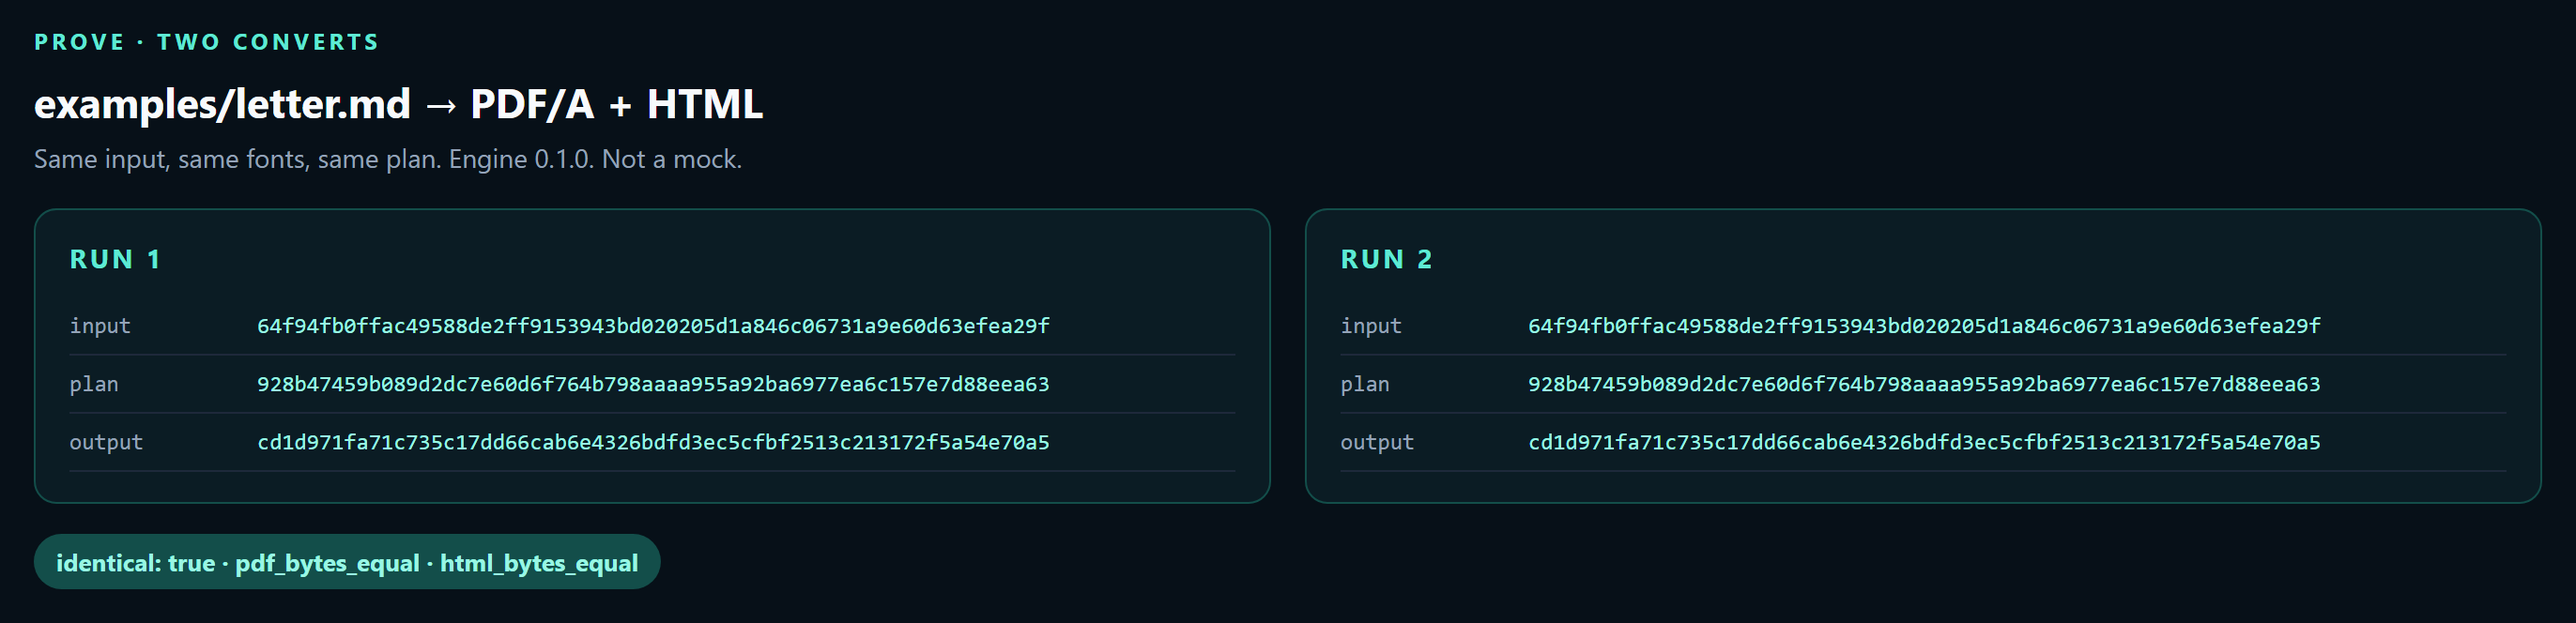
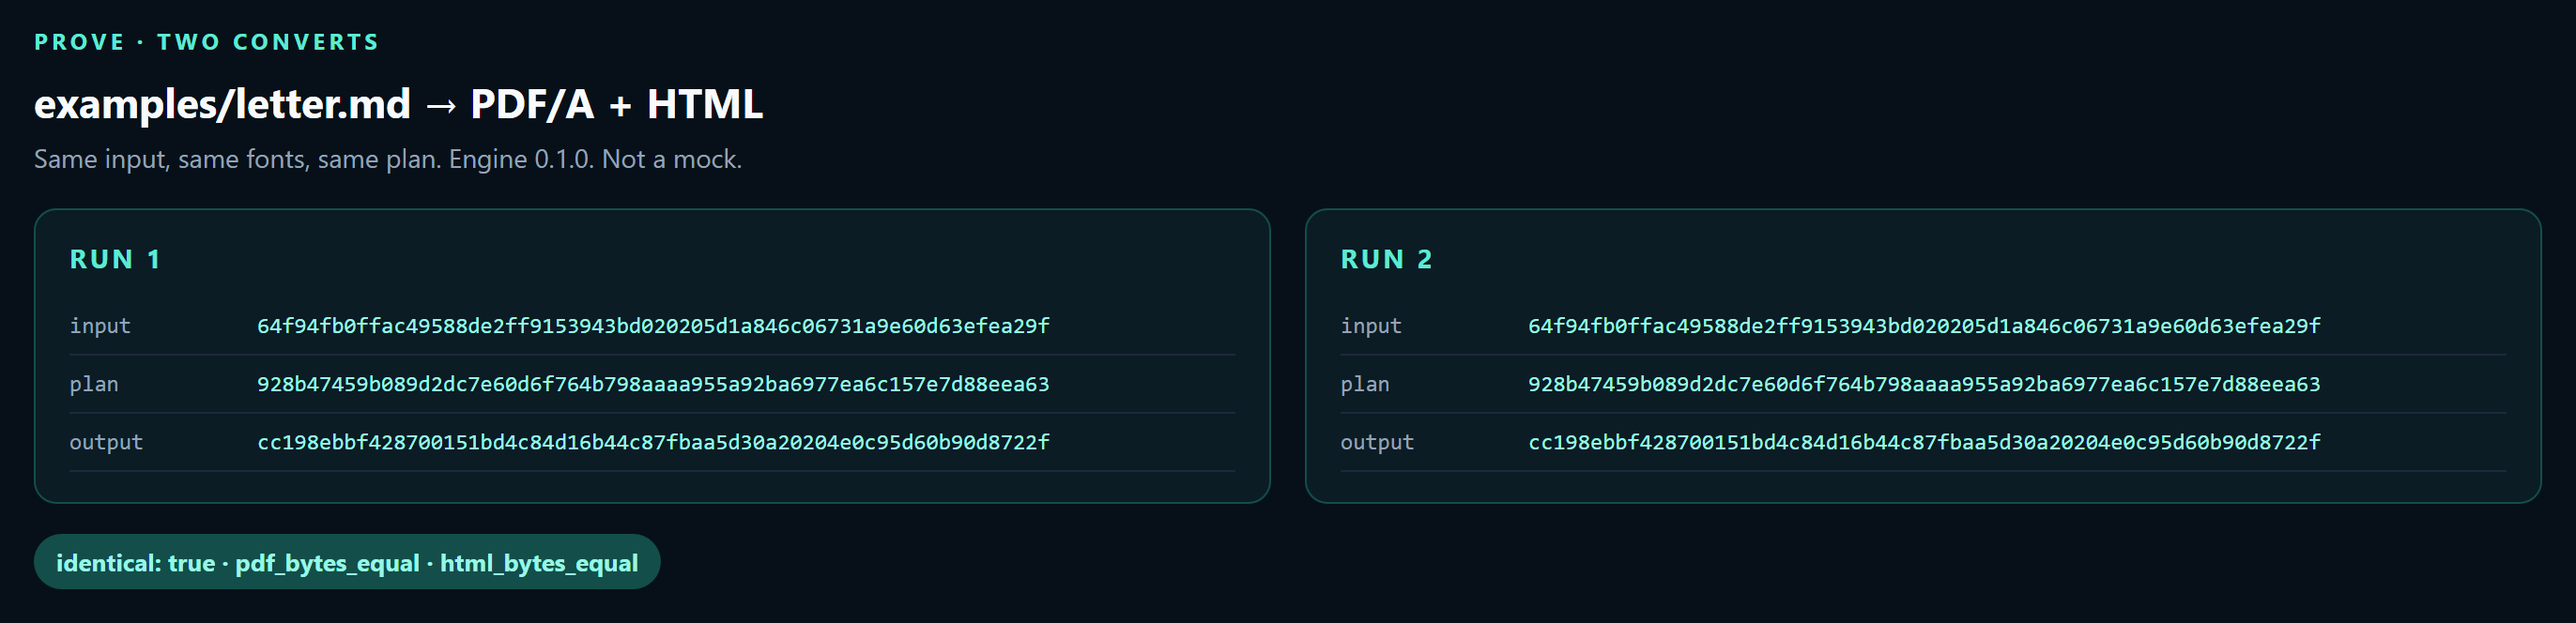
Keep hyperlink URIs as PDF /Link annotations.

Changed region(s): [[0.5886, 0.6928, 0.8983, 0.7229], [0.0929, 0.6928, 0.4027, 0.7229]]

diff --git a/crates/docagent-layout/src/lib.rs b/crates/docagent-layout/src/lib.rs
@@ -43,6 +43,24 @@ pub struct LineFrag {
     pub bold: bool,
     pub italic: bool,
     pub underline: bool,
+    /// External URI for this run, if it is a hyperlink.
+    pub href: Option<String>,
+}
+
+impl LineFrag {
+    /// Hit box plus URI for a PDF `/Link` annotation. Height covers glyphs
+    /// even when this fragment is not the last on the line (`height` is 0).
+    pub fn link_hit(&self) -> Option<(Hu, Hu, Hu, Hu, &str)> {
+        let uri = self.href.as_deref().filter(|u| !u.is_empty())?;
+        if self.width <= 0 {
+            return None;
+        }
+        let h = self
+            .height
+            .max(self.font_size)
+            .max(self.baseline.saturating_add(120));
+        Some((self.x, self.y, self.width, h, uri))
+    }
 }
 
 #[derive(Clone, Debug, PartialEq, Eq)]
@@ -394,6 +412,7 @@ fn layout_paragraph(p: &Paragraph, fonts: &FontSet, width: Hu) -> (Vec<LineFrag>
             bold: false,
             italic: false,
             underline: false,
+            href: None,
         });
         if bullet {
             fills.push(bullet_fill(p.indent_left, baseline, size));
@@ -421,10 +440,11 @@ fn layout_paragraph(p: &Paragraph, fonts: &FontSet, width: Hu) -> (Vec<LineFrag>
                 bold: false,
                 italic: false,
                 underline: false,
+                href: None,
             });
             x += marker_w;
         }
-        for (rs, re, bold, italic, underline) in &spans {
+        for (rs, re, bold, italic, underline, href) in &spans {
             let s = (*rs).max(a);
             let e = (*re).min(b);
             if s >= e {
@@ -443,6 +463,7 @@ fn layout_paragraph(p: &Paragraph, fonts: &FontSet, width: Hu) -> (Vec<LineFrag>
                 bold: *bold,
                 italic: *italic,
                 underline: *underline,
+                href: href.clone(),
             });
             x += w;
         }
@@ -466,6 +487,7 @@ fn layout_paragraph(p: &Paragraph, fonts: &FontSet, width: Hu) -> (Vec<LineFrag>
                 bold: false,
                 italic: false,
                 underline: false,
+                href: None,
             });
         }
         out.extend(row);
@@ -484,7 +506,7 @@ fn bullet_fill(x: Hu, baseline: Hu, size: Hu) -> RectFrag {
     }
 }
 
-fn run_spans(p: &Paragraph) -> Vec<(usize, usize, bool, bool, bool)> {
+fn run_spans(p: &Paragraph) -> Vec<(usize, usize, bool, bool, bool, Option<String>)> {
     let mut i = 0usize;
     let mut out = Vec::new();
     for run in &p.runs {
@@ -493,12 +515,16 @@ fn run_spans(p: &Paragraph) -> Vec<(usize, usize, bool, bool, bool)> {
             continue;
         }
         let n = t.chars().count();
-        let underline = run.style.underline != docagent_model::Underline::None
-            || matches!(
-                &run.content,
-                RunContent::Inline(docagent_model::InlineObject::Hyperlink { .. })
-            );
-        out.push((i, i + n, run.style.bold, run.style.italic, underline));
+        let href = match &run.content {
+            RunContent::Inline(docagent_model::InlineObject::Hyperlink { target, .. })
+                if !target.is_empty() =>
+            {
+                Some(target.clone())
+            }
+            _ => None,
+        };
+        let underline = run.style.underline != docagent_model::Underline::None || href.is_some();
+        out.push((i, i + n, run.style.bold, run.style.italic, underline, href));
         i += n;
     }
     out
@@ -861,6 +887,14 @@ mod tests {
         let tree = layout_document(&doc, &FontSet::bundled());
         let page = &tree.pages[0];
         assert!(page.lines.iter().any(|l| l.text.contains("DocAgent") && l.underline));
+        assert!(
+            page.lines.iter().any(|l| {
+                l.href.as_deref() == Some("https://github.com/kevin9327/docagent")
+                    && l.link_hit().is_some()
+            }),
+            "hyperlink href missing: {:?}",
+            page.lines
+        );
         assert!(
             page.strokes
                 .iter()

diff --git a/crates/docagent-pdf/src/lib.rs b/crates/docagent-pdf/src/lib.rs
@@ -4,6 +4,8 @@
 
 use docagent_font::FontSet;
 use docagent_paint::{DisplayList, Op};
+use krilla::action::LinkAction;
+use krilla::annotation::{Annotation, LinkAnnotation, Target};
 use krilla::color::rgb;
 use krilla::configure::{Archival, ConfigurationBuilder, Validator};
 use krilla::geom::{PathBuilder, Point, Rect, Transform};
@@ -74,6 +76,7 @@ pub fn to_pdfa(list: &DisplayList, fonts: &FontSet) -> Result<Vec<u8>, String> {
                 .unwrap_or(page_size);
             let mut page =
                 document.start_page_with(PageSettings::from_wh(w, h).ok_or("page size")?);
+            let mut links = Vec::new();
             {
                 let mut surface = page.surface();
                 for op in &ops {
@@ -151,10 +154,32 @@ pub fn to_pdfa(list: &DisplayList, fonts: &FontSet) -> Result<Vec<u8>, String> {
                                 surface.pop();
                             }
                         }
+                        Op::Link { x, y, w, h, uri } => {
+                            if *w > 0 && *h > 0 && !uri.is_empty() {
+                                links.push((*x, *y, *w, *h, uri.clone()));
+                            }
+                        }
                         Op::Page { .. } => {}
                     }
                 }
                 surface.finish();
+            }
+            for (x, y, w, h, uri) in links {
+                let Some(rect) = Rect::from_xywh(
+                    x as f32 / HU_PER_PT,
+                    y as f32 / HU_PER_PT,
+                    (w as f32 / HU_PER_PT).max(0.05),
+                    (h as f32 / HU_PER_PT).max(0.05),
+                ) else {
+                    continue;
+                };
+                page.add_annotation(Annotation::new_link(
+                    LinkAnnotation::new(
+                        rect,
+                        Target::Action(LinkAction::new(uri.clone()).into()),
+                    ),
+                    Some(uri),
+                ));
             }
             page.finish();
         }
@@ -336,6 +361,13 @@ mod tests {
         );
         let pdf = to_pdfa(&list, &FontSet::bundled()).expect("pdf");
         assert!(claims_pdfa(&pdf));
+        let s = String::from_utf8_lossy(&pdf);
+        assert!(s.contains("/URI"), "PDF /URI action missing");
+        assert!(
+            s.contains("https://github.com/kevin9327/docagent"),
+            "PDF URI target missing"
+        );
+        assert!(s.contains("/Link"), "PDF /Link subtype missing");
     }
 
     #[test]

diff --git a/crates/docagent-paint/src/lib.rs b/crates/docagent-paint/src/lib.rs
@@ -27,6 +27,14 @@ pub enum Op {
         bold: bool,
         italic: bool,
     },
+    /// Clickable URI. Coordinates are the same HWPUNIT space as `FillRect`.
+    Link {
+        x: i32,
+        y: i32,
+        w: i32,
+        h: i32,
+        uri: String,
+    },
 }
 
 #[derive(Archive, Deserialize, Serialize, Clone, Debug, PartialEq, Eq)]
@@ -82,6 +90,15 @@ pub fn paint(tree: &FragmentTree) -> DisplayList {
                 bold: line.bold,
                 italic: line.italic,
             });
+            if let Some((x, y, w, h, uri)) = line.link_hit() {
+                ops.push(Op::Link {
+                    x,
+                    y,
+                    w,
+                    h,
+                    uri: uri.to_string(),
+                });
+            }
         }
     }
     DisplayList { ops }
@@ -147,5 +164,30 @@ mod tests {
         assert!(list.ops.iter().any(|op| {
             matches!(op, Op::Text { text, italic: false, .. } if text.contains("plain"))
         }));
+    }
+
+    #[test]
+    fn paint_forwards_link_ops() {
+        let mut doc = Document::new();
+        let mut section = Section::default();
+        let mut p = Paragraph::from_text("");
+        p.runs = vec![docagent_model::Run::hyperlink(
+            "DocAgent",
+            "https://github.com/kevin9327/docagent",
+        )];
+        section.body.push(Block::Paragraph(p));
+        doc.sections.push(section);
+        let list = paint(&layout_document(&doc, &FontSet::bundled()));
+        assert!(
+            list.ops.iter().any(|op| {
+                matches!(
+                    op,
+                    Op::Link { uri, w, h, .. }
+                        if uri == "https://github.com/kevin9327/docagent" && *w > 0 && *h > 0
+                )
+            }),
+            "link op missing: {:?}",
+            list.ops
+        );
     }
 }

diff --git a/crates/docagent-raster/src/lib.rs b/crates/docagent-raster/src/lib.rs
@@ -41,10 +41,11 @@ pub fn raster_pages(list: &DisplayList) -> Vec<Vec<u8>> {
                     }
                 }
             }
-            Op::Text { .. } => {
+            Op::Text { .. } | Op::Link { .. } => {
                 // Glyph outlines are painted by the PDF backend; the CPU
                 // pixmap keeps filled rects plus a stable hash of text ops
-                // so visual regression stays byte-comparable.
+                // so visual regression stays byte-comparable. Link hit boxes
+                // are PDF annotations, not pixels.
             }
         }
     }

diff --git a/README.md b/README.md
@@ -91,13 +91,13 @@ Not a slogan. Two `Command::Convert` calls on [`examples/letter.md`](examples/le
 | --- | --- |
[4 lines of base64/hex data omitted]
 
 These are the hashes in [`letter-capsule.json`](docs/assets/letter-capsule.json). MinerU and Docling do not ship this. We do not ship OmniDocBench numbers.
 
 ## What you get
 
-These three pictures are the convert of [`examples/letter.md`](examples/letter.md). Click through to the files: [PDF/A](docs/assets/letter.pdf) · [HTML](docs/assets/letter.html) (`<a href>`) · [DOCX](docs/assets/letter.docx) (`Heading1` / `w:numPr` / `w:hyperlink`) · [ODT](docs/assets/letter.odt) (`text:h` / `text:list` / `text:a`) · [Markdown](docs/assets/letter.md) (GFM `| --- |` / `[text](url)`) · [capsule JSON](docs/assets/letter-capsule.json).
+These three pictures are the convert of [`examples/letter.md`](examples/letter.md). Click through to the files: [PDF/A](docs/assets/letter.pdf) (`/Link` URI) · [HTML](docs/assets/letter.html) (`<a href>`) · [DOCX](docs/assets/letter.docx) (`Heading1` / `w:numPr` / `w:hyperlink`) · [ODT](docs/assets/letter.odt) (`text:h` / `text:list` / `text:a`) · [Markdown](docs/assets/letter.md) (GFM `| --- |` / `[text](url)`) · [capsule JSON](docs/assets/letter-capsule.json).
 
 ```markdown
 | **Hop** | **File** | **Proof** |
@@ -110,7 +110,7 @@ These three pictures are the convert of [`examples/letter.md`](examples/letter.m
 <p align="center">
   <img src="docs/assets/output-pdf.png" alt="PDF/A page produced by DocAgent from examples/letter.md" width="100%">
 </p>
-<p align="center"><sub>PDF/A from the integer layout engine. Heading rules, list markers, and hyperlink underlines are painted fills, not glyphs. Bold is a second fill; italic is a 0.20 shear on the Regular face (GPU-free, <em>byte-for-byte</em>). Same fonts → same bytes on the next run.</sub></p>
+<p align="center"><sub>PDF/A from the integer layout engine. Heading rules, list markers, and hyperlink underlines are painted fills, not glyphs. Links are URI <code>/Link</code> annotations (click the last line). Bold is a second fill; italic is a 0.20 shear on the Regular face (GPU-free, <em>byte-for-byte</em>). Same fonts → same bytes on the next run.</sub></p>
 
 <p align="center">
   <img src="docs/assets/output-html.png" alt="Semantic HTML produced by DocAgent from the same letter" width="100%">
@@ -136,7 +136,7 @@ These three pictures are the convert of [`examples/letter.md`](examples/letter.m
 | --- | --- |
 | **IR** | Format-blind document model. Layout never sees “docx” or “hwp”. |
 | **Layout** | One engine. Coordinates are `i32` at 1/7200 inch. `f32` is forbidden. |
-| **PDF/A** | Archival print. Heading rules, list markers, hyperlink underlines, and table fills are `FillRect`s. Two runs, same fonts, same bytes. |
+| **PDF/A** | Archival print. Heading rules, list markers, hyperlink underlines, and table fills are `FillRect`s. Links are URI `/Link` annotations. Two runs, same fonts, same bytes. |
 | **DOCX / ODT** | Headings as `w:pStyle Heading1/2` + `text:h` with `fo:font-size` 18pt/14pt. Lists as `w:numPr` and `text:list`. Links as `w:hyperlink` and `text:a`. Runs keep `w:b`/`w:i` in body and table cells. |
 | **Markdown** | Pipe tables write a GFM separator after the header. Cells keep `**bold**` / `_italic_`. Links write `[text](url)`. |
 | **HTML** | Semantic HTML an agent can read back. Table cells keep `<strong>`/`<em>`. Links are `<a href>`. |

diff --git a/docs/loop/STATE.md b/docs/loop/STATE.md
@@ -1,28 +1,27 @@
 # DocAgent #1 loop state
 
-Last cycle: 20 (2026-09-06) — hyperlinks through codecs
+Last cycle: 21 (2026-09-06) — PDF URI /Link annotations
 
 ## Public GitHub page (priority 0)
 
 The page strangers see is `https://github.com/kevin9327/docagent`.
 
 Shipped this cycle:
-- Hyperlinks are IR runs (`Run::hyperlink` / `InlineObject::Hyperlink`).
-- PDF/A paints underline `FillRect`s. HTML writes `<a href>`. Markdown writes `[text](url)`.
-- DOCX writes `w:hyperlink` + `word/_rels` TargetMode External. ODT writes `text:a xlink:href`.
-- Fixture last line is `[DocAgent](https://github.com/kevin9327/docagent) runtime — …`.
-- Regenerated letter PDF/A, HTML, DOCX, ODT, MD, capsule, prove JSON, and README screenshots.
+- Layout carries `LineFrag.href`. Paint emits `Op::Link`.
+- PDF/A writes clickable URI `/Link` annotations (krilla `LinkAction`) over the hyperlink hit box.
+- Fixture last line is still `[DocAgent](https://github.com/kevin9327/docagent)` — the underline fill stays; the PDF is now a real link.
+- Regenerated letter PDF/A, HTML, capsule, prove JSON, and README screenshots. DOCX/ODT/MD unchanged.
 
 Verified hashes (engine 0.1.0, letter.md → PDF/A + HTML):
[4 lines of base64/hex data omitted]
 
-Plan hash is unchanged vs cycle 19: display glyphs of the last line did not move; the extra paint is the underline fill. Output hash changed with the PDF bytes.
+Input and plan hashes match cycle 20. Output hash changed with the annotation objects.
 
 ## Next
 
-1. PDF URI `/Link` annotations so the underline is clickable, or Hangul codec hyperlinks, or strikethrough.
+1. Hangul codec hyperlinks, or strikethrough, or inline images.
 2. Keep visual density at or above MinerU/Docling for an *agent document runtime*.
 
 ## Rule
